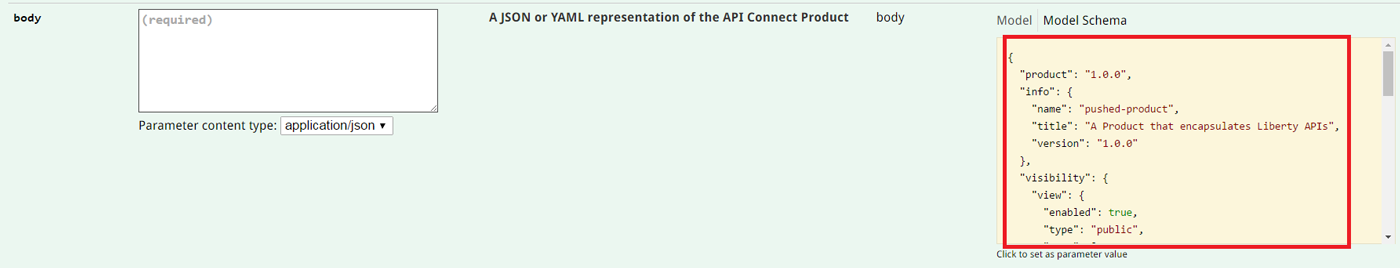
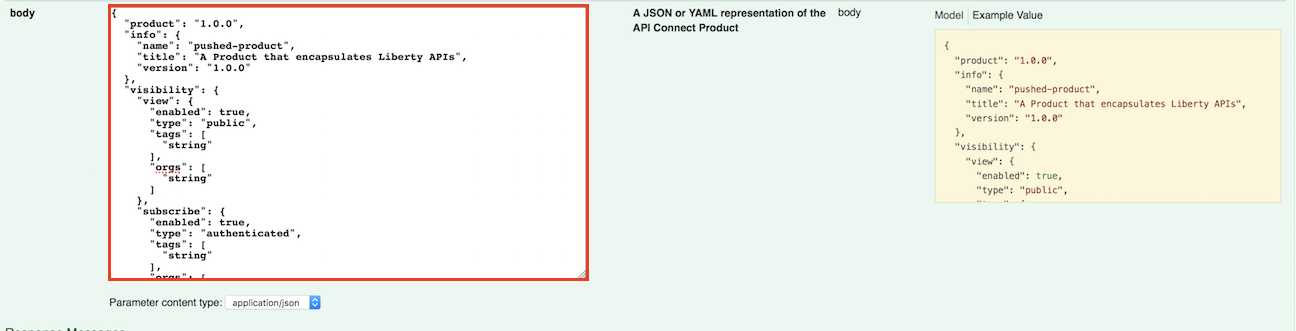
added extra instructions for step 4

diff --git a/README.md b/README.md
@@ -142,8 +142,68 @@ In this step, we will setup API Connect service to help us distribute our APIs.
 
 	![mypassword](images/mypassword.png)
 
-5. The best part about using the Swagger user interface in Liberty to push your APIs into API Connect is that you can use a fully working product.json sample JSON file. Click the sample JSON file under Model Schema, and that JSON file is automatically transferred into the body input box, as shown in the following screen capture:
-
+5. Since we are running our APIs on our local machine, we do not want to use the sample JSON file because that will set the APIs target URL to our local machine. Instead, we want to change the `<cloud host:port>` part in **target-url** (line 38) from the following JSON file (you can also get it from the **discovery-post.json** file) to your cloud host : port (e.g. `"https://cap-sg-prd-1.integration.ibmcloud.com:16666$(request.path)"`). Then copy and paste it into the body input box.
+	```JSON
+	{
+	  "product": "1.0.0",
+	  "info": {
+	    "name": "pushed-product",
+	    "title": "A Product that encapsulates Liberty APIs",
+	    "version": "1.0.0"
+	  },
+	  "visibility": {
+	    "view": {
+	      "enabled": true,
+	      "type": "public",
+	      "tags": [
+	        "string"
+	      ],
+	      "orgs": [
+	        "string"
+	      ]
+	    },
+	    "subscribe": {
+	      "enabled": true,
+	      "type": "authenticated",
+	      "tags": [
+	        "string"
+	      ],
+	      "orgs": [
+	        "string"
+	      ]
+	    }
+	  },
+	  "apis": {
+	    "liberty": {
+	      "name": "liberty-api:1.0.0",
+	      "x-ibm-configuration": {
+	        "assembly": {
+	          "execute": [
+	            {
+	              "invoke": {
+	                "target-url": "<cloud host:port>$(request.path)",
+	                "title": "Invocation"
+	              }
+	            }
+	          ]
+	        }
+	      }
+	    }
+	  },
+	  "plans": {
+	    "default": {
+	      "title": "Default Plan",
+	      "rate-limit": {
+	        "value": "100/hour",
+	        "hard-limit": false
+	      },
+	      "approval": false
+	    }
+	  },
+	  "createdAt": "2017-05-01T16:13:05.912Z",
+	  "createdBy": "string"
+	}
+	```
 	![json](images/json.png)
 
 6. Now you're ready to publish these APIs. Click **Try it out!**
@@ -168,7 +228,11 @@ Now you can go to your API and try it out at the API Connect Developer Portal.
 
 2. In the **Import API from a file or URL** window, click **Or import from URL**.
 
-	For the URL, type the Liberty URL that you want to use to import the Swagger document. For this example, you can use `https://<Cloud Host:Port>/ibm/api/docs/apiconnect`
+	For the URL, type the Liberty URL that you want to use to import the Swagger document. For this example, you can use `https://<Cloud Host:Port>/ibm/api/docs/apiconnect`. Remember the username for this example is **user** and password is **demo**.
+    
+3. After you imported your API, go to **source**. Then go to the bottom of the page (around line 532) and change the **target-url**'s value to `'<cloud host:port>$(request.path)'` (replace `<cloud host:port>` to your own cloud host:port). Then click the **save icon** on the top right corner.
+
+    ![target-url](images/target-url.png)
 
 3. Click **All APIs** to go back into the main Drafts page, Click **Products**, and then click **Add > New Product**. In the Add a new product window, type in a title (could be anything) and then click **Add**.
 
